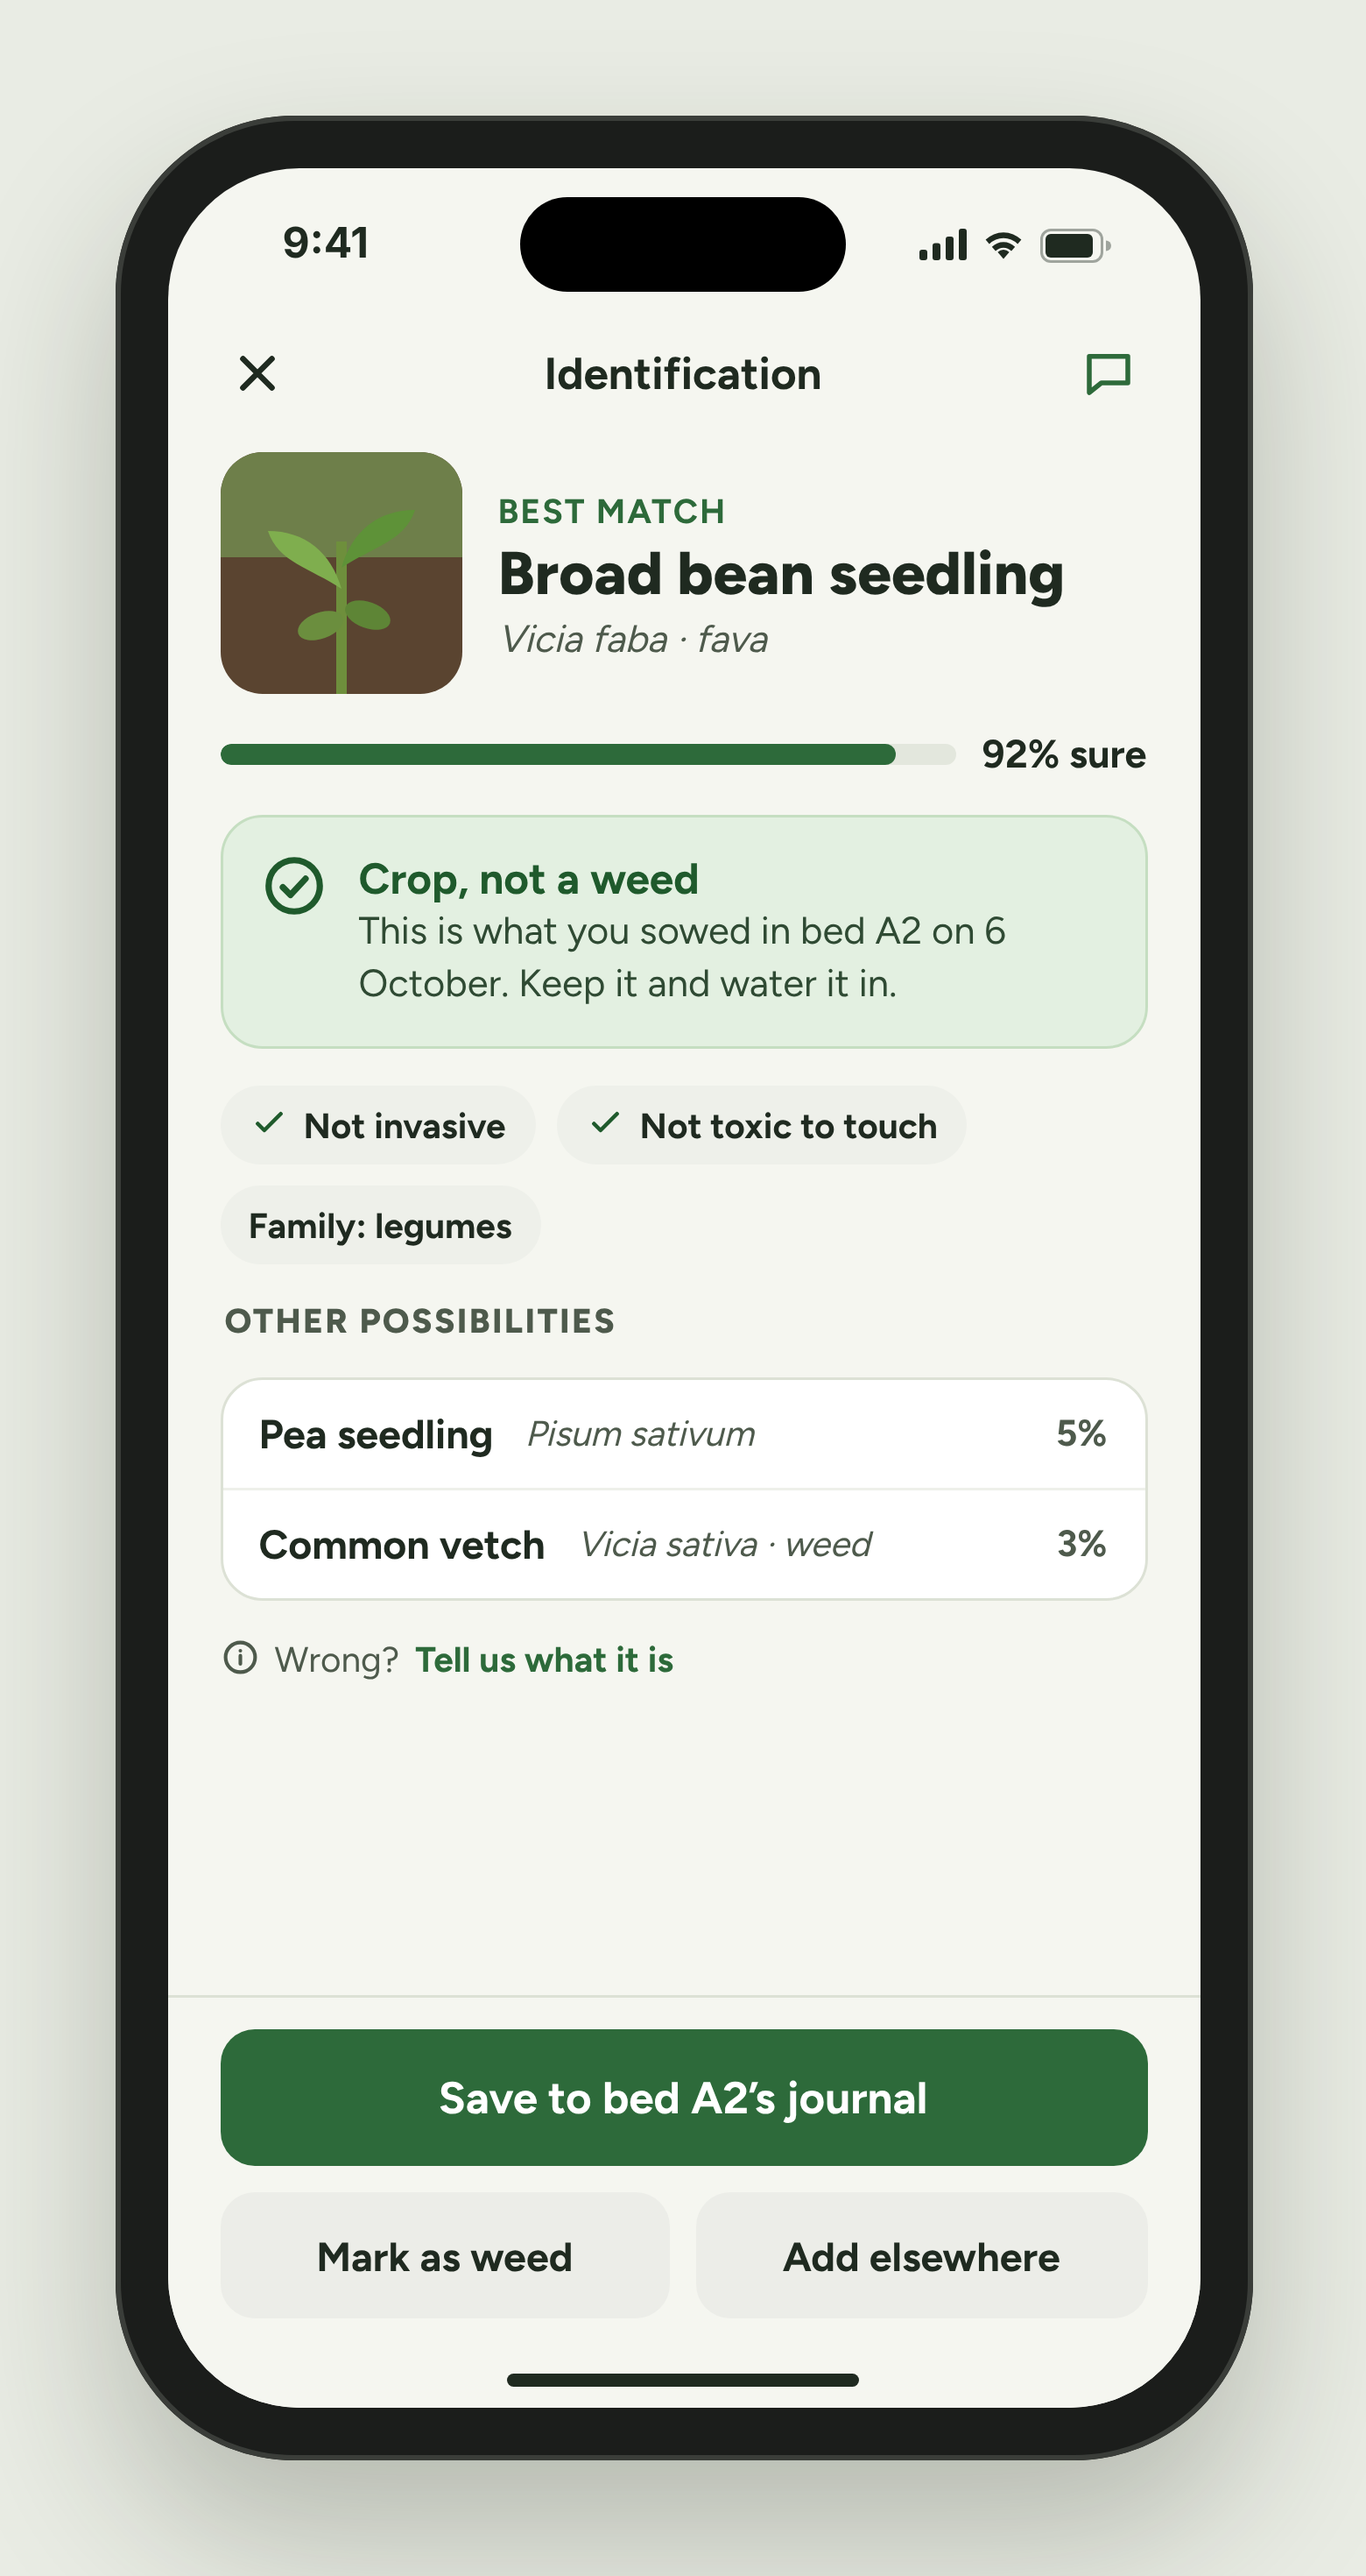
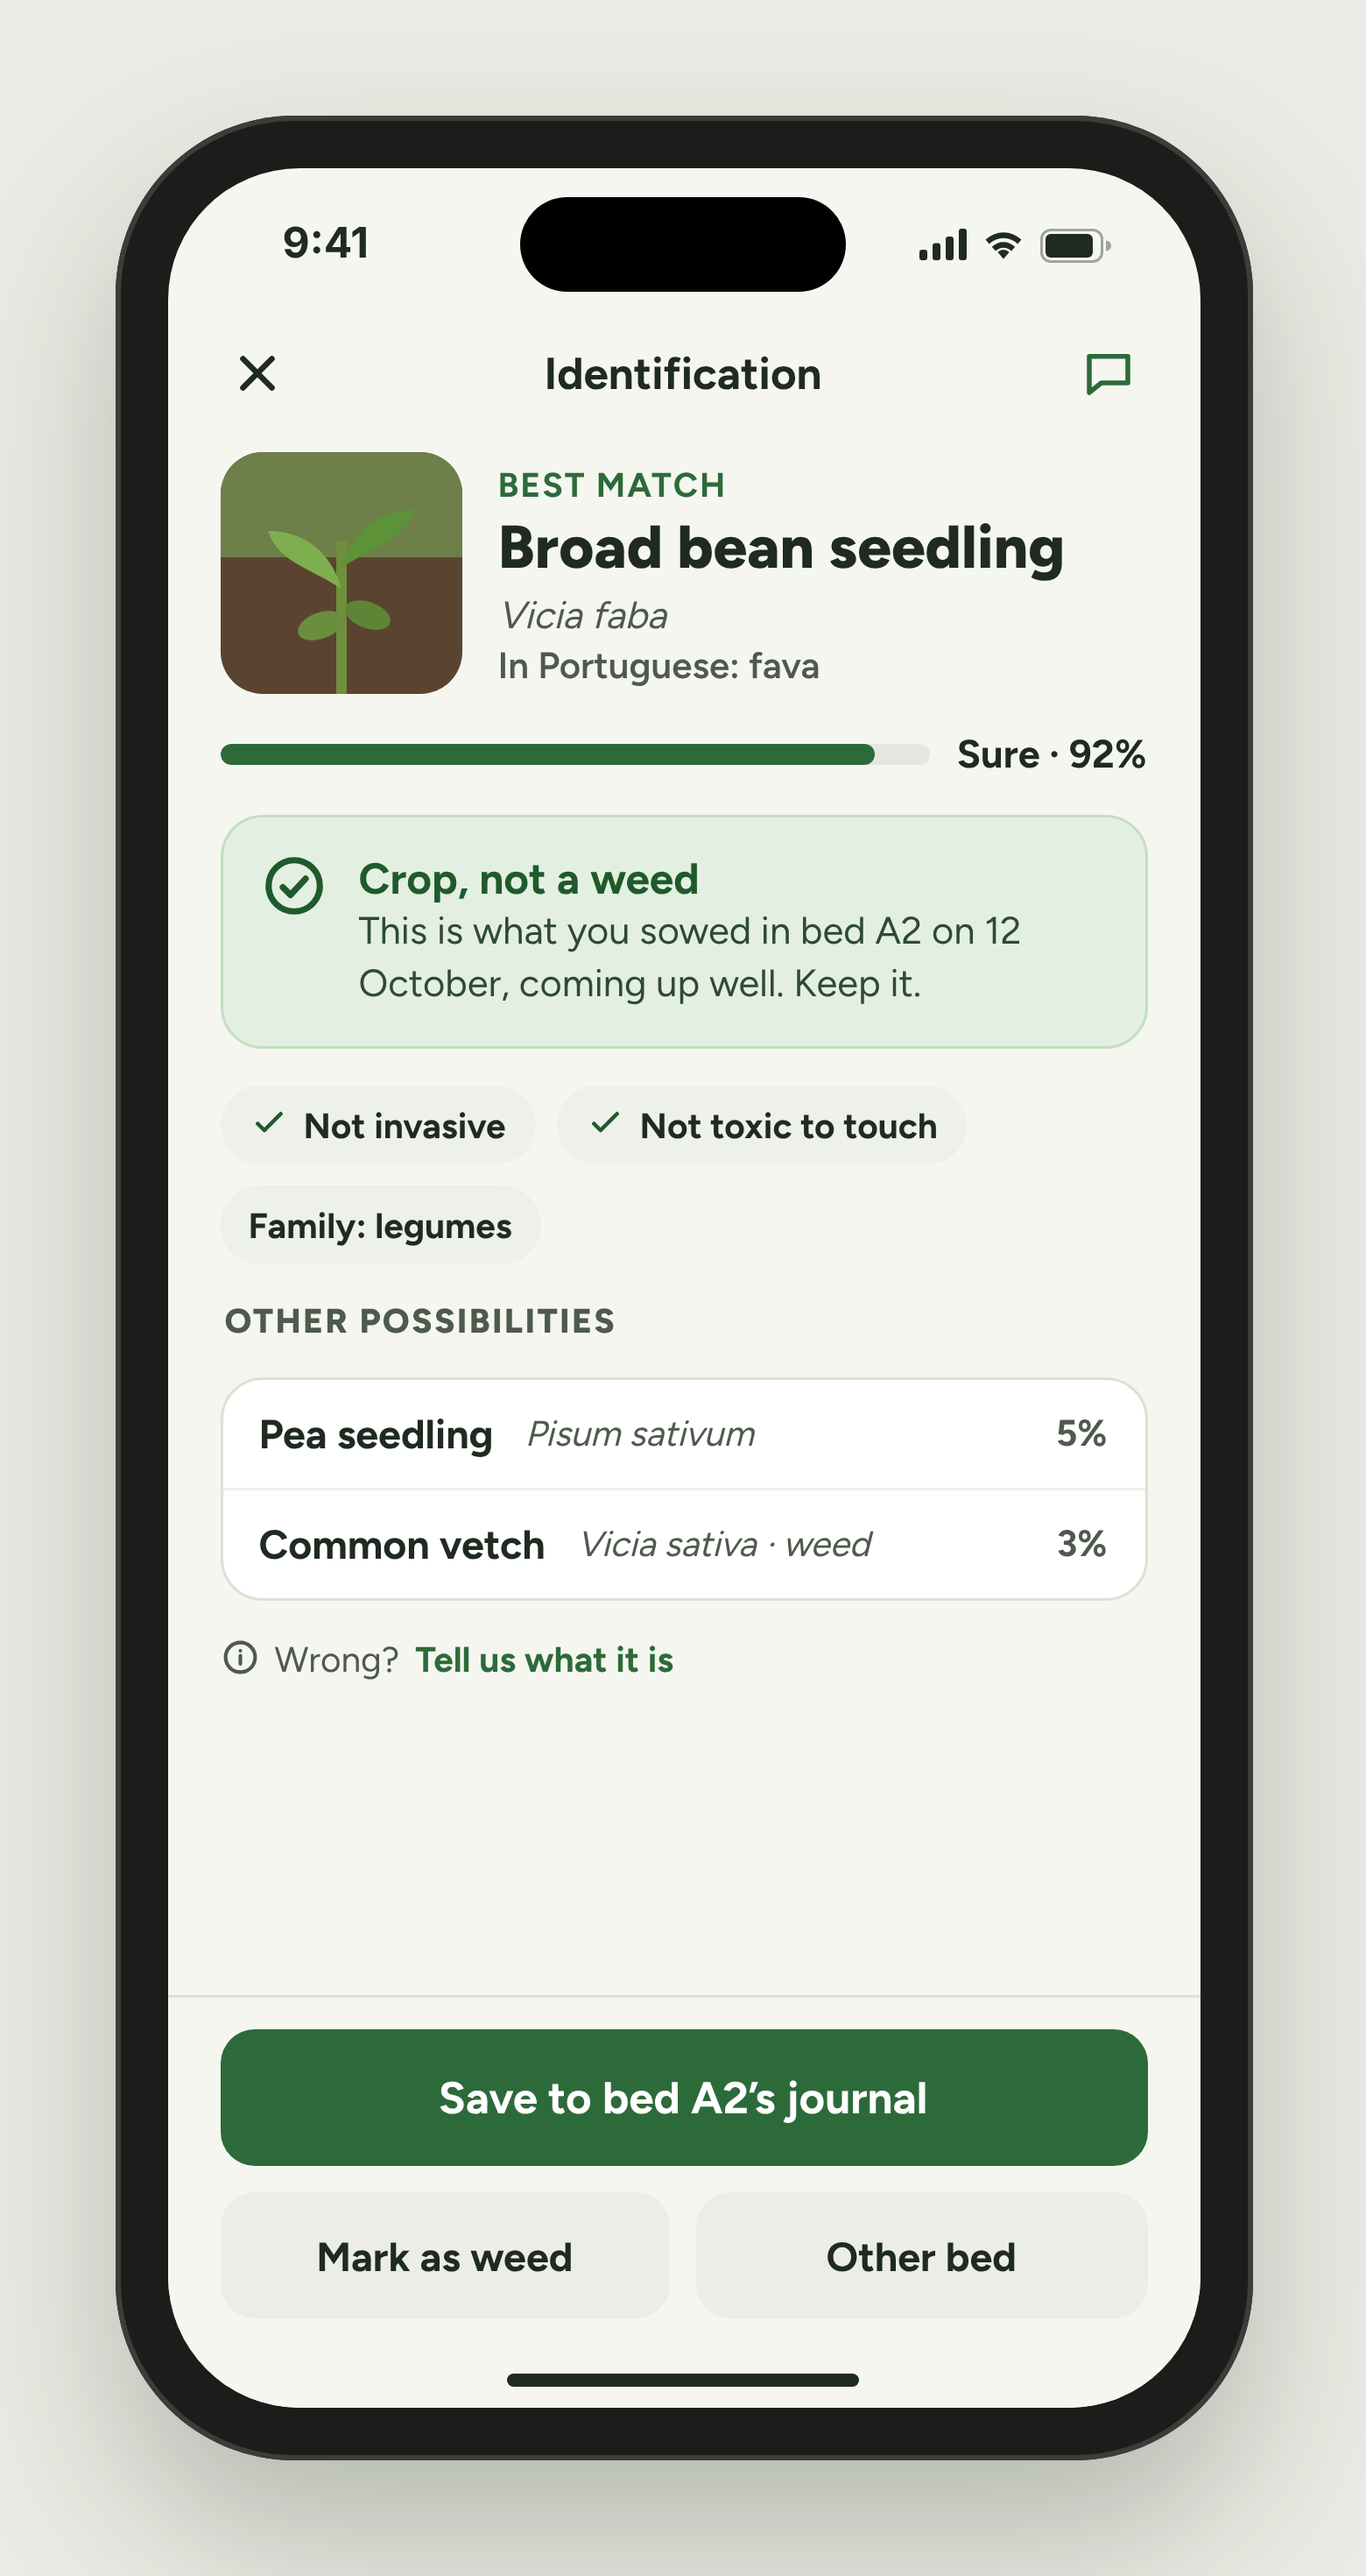
Design D3 identification: correct sowing date, plain-word confidence, Portuguese name label, Other bed
Claude-Session: https://claude.ai/code/session_015NynAjU4naPZwzmeuGazot

diff --git a/design/source/D3-identification.html b/design/source/D3-identification.html
@@ -61,15 +61,15 @@
       <div class="match">
         <small>Best match</small>
         <h1>Broad bean seedling</h1>
-        <i>Vicia faba · fava</i>
+        <i>Vicia faba</i><span style="display: block; font-size: 14px; color: var(--muted); font-weight: 600; margin-top: 2px">In Portuguese: fava</span>
       </div>
     </div>
 
-    <div class="conf"><div class="bar"><span style="width: 92%"></span></div><b>92% sure</b></div>
+    <div class="conf"><div class="bar"><span style="width: 92%"></span></div><b>Sure · 92%</b></div>
 
     <div class="verdict">
       <svg width="26" height="26" viewBox="0 0 24 24" fill="none" stroke="#1F5A2C" stroke-width="2.2" stroke-linecap="round" stroke-linejoin="round" style="flex:none"><circle cx="12" cy="12" r="9"/><path d="M8 12.5l2.7 2.7L16 9.5"/></svg>
-      <div><b>Crop, not a weed</b><span>This is what you sowed in bed A2 on 6 October. Keep it and water it in.</span></div>
+      <div><b>Crop, not a weed</b><span>This is what you sowed in bed A2 on 12 October, coming up well. Keep it.</span></div>
     </div>
 
     <div class="flags">
@@ -93,7 +93,7 @@
     <div class="btn primary">Save to bed A2’s journal</div>
     <div class="row">
       <div class="btn secondary small">Mark as weed</div>
-      <div class="btn secondary small">Add elsewhere</div>
+      <div class="btn secondary small">Other bed</div>
     </div>
   </div>
   <div class="home"></div>
